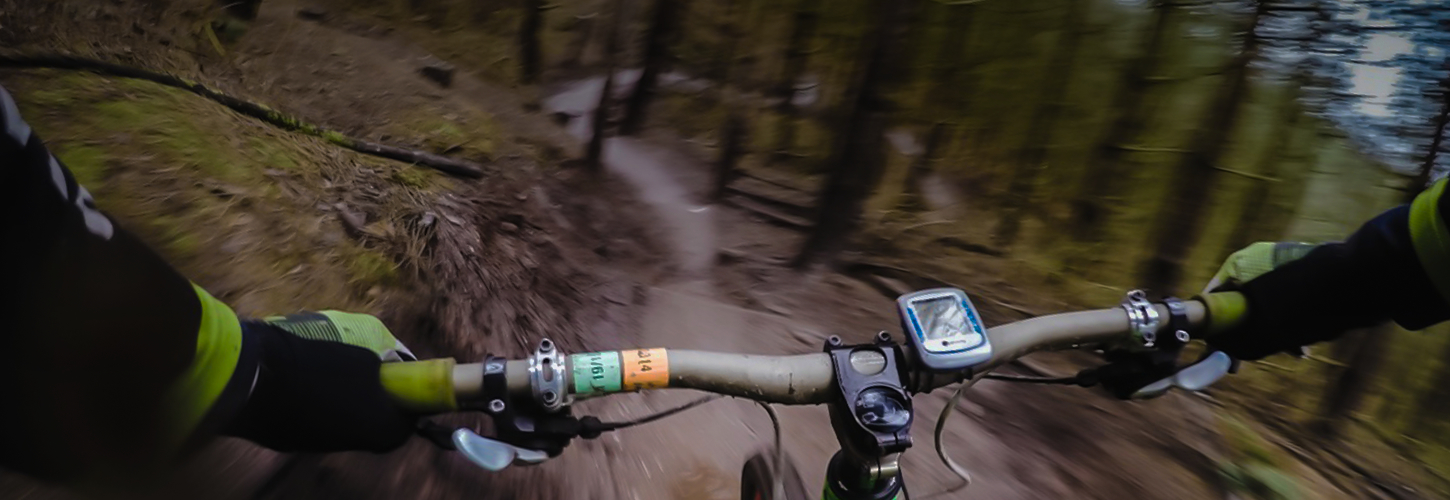
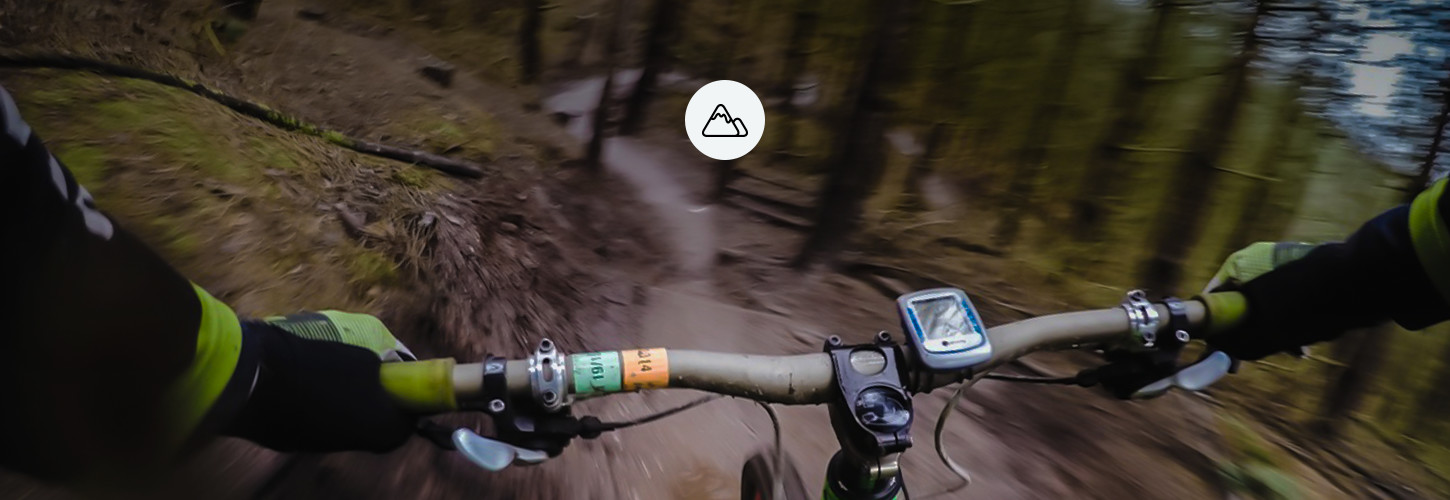
fixes

Changed region(s): [[0.4655, 0.15, 0.5276, 0.33]]

diff --git a/app/components/landing/landing.html b/app/components/landing/landing.html
@@ -1,113 +1,113 @@
-<!--<div class="jumbotron jumbotron-index">
-    <div class="container text-center">
-        <h3>Welcome to Campture</h3>
-        <p>Showcase and Discover experiences</p>
-        <a  ng-href="#/howTo/" class="btn btn-primary btn-lg round"><img src="/img/icons/map.svg" alt=""> Campture Me!</a>
-        <!--<a ng-show="userObj == undefined" class="btn btn-primary btn-lg round" data-target="#facebook-login-modal" data-toggle="modal"><img src="/img/icons/map.svg" alt=""> Campture Me!</a>
-        <a ng-show="userObj" ng-href="#/account/postTrip" class="btn btn-primary btn-lg round"><img src="/img/icons/map.svg" alt=""> Campture Me!</a>
-    </div>
-</div>!-->
+    <!--<div class="jumbotron jumbotron-index">
+        <div class="container text-center">
+            <h3>Welcome to Campture</h3>
+            <p>Showcase and Discover experiences</p>
+            <a  ng-href="#/howTo/" class="btn btn-primary btn-lg round"><img src="/img/icons/map.svg" alt=""> Campture Me!</a>
+            <!--<a ng-show="userObj == undefined" class="btn btn-primary btn-lg round" data-target="#facebook-login-modal" data-toggle="modal"><img src="/img/icons/map.svg" alt=""> Campture Me!</a>
+            <a ng-show="userObj" ng-href="#/account/postTrip" class="btn btn-primary btn-lg round"><img src="/img/icons/map.svg" alt=""> Campture Me!</a>
+        </div>
+    </div>!-->
 <div id="carousel" class="carousel slide carousel-fade jumbotron-index" data-ride="carousel">
     <!-- Carousel items -->
     <div class="carousel-inner">
         <div class="active item">
             <img src="../../../css/images/Slider1.jpg">
             <div class="carousel-caption">
-                <img src="../../../css/images/Slider1 icon.png" style="width:50px;" class="hidden-sm hidden-xs">
                 <p class="landing-carousel-text">Campture those moments in the clouds.</p>
-                <a ng-href="#/account/postTrip/" class="btn btn-default get-started-btn">Get Started</a>
+                <a ng-show="userObj" ng-href="#/account/postTrip/" class="btn btn-default get-started-btn">Get Started</a>
+                <a ng-show="userObj == undefined" class="btn btn-default get-started-btn" data-target="#facebook-login-modal" data-toggle="modal">Get Started</a>
             </div>
         </div>
         <div class="item"><img src="../../../css/images/slider2.jpg">
-        <div class="carousel-caption">
-        <img src="../../../css/images/Slider2 icon.png" style="width:50px;" class="hidden-sm hidden-xs">
-        <p class="landing-carousel-text">Campture the adrenaline rush.</p>
-        <a ng-href="#/account/postTrip/" class="btn btn-default get-started-btn">Get Started</a>
-      </div>
+            <div class="carousel-caption">
+                <p class="landing-carousel-text">Campture the adrenaline rush.</p>
+                <a ng-show="userObj" ng-href="#/account/postTrip/" class="btn btn-default get-started-btn">Get Started</a>
+                <a ng-show="userObj == undefined" class="btn btn-default get-started-btn" data-target="#facebook-login-modal" data-toggle="modal">Get Started</a>
+            </div>
         </div>
         <div class="item"><img src="../../../css/images/slider3.jpg">
-        <div class="carousel-caption">
-        <img src="../../../css/images/Slider3 icon.png" style="width:50px;" class="hidden-sm hidden-xs">
-        <p class="landing-carousel-text">Campture those unique trails with friends.</p>
-        <a ng-href="#/account/postTrip/" class="btn btn-default get-started-btn">Get Started</a>
-      </div>
+            <div class="carousel-caption">
+                <p class="landing-carousel-text">Campture those unique trails with friends.</p>
+                <a ng-show="userObj" ng-href="#/account/postTrip/" class="btn btn-default get-started-btn">Get Started</a>
+                <a ng-show="userObj == undefined" class="btn btn-default get-started-btn" data-target="#facebook-login-modal" data-toggle="modal">Get Started</a>
+            </div>
         </div>
         <div class="item"><img src="../../../css/images/slider4.jpg">
-        <div class="carousel-caption">
-        <img src="../../../css/images/Slider4 icon.png" style="width:50px;" class="hidden-sm hidden-xs">
-        <p class="landing-carousel-text">Campture your adventure.</p>
-        <a ng-href="#/account/postTrip/" class="btn btn-default get-started-btn">Get Started</a>
-      </div>
+            <div class="carousel-caption">
+                <p class="landing-carousel-text">Campture your adventure.</p>
+                <a ng-show="userObj" ng-href="#/account/postTrip/" class="btn btn-default get-started-btn">Get Started</a>
+                <a ng-show="userObj == undefined" class="btn btn-default get-started-btn" data-target="#facebook-login-modal" data-toggle="modal">Get Started</a>
+            </div>
         </div>
-        
+
     </div>
     <!-- Carousel nav -->
     <a class="carousel-control left" href="#carousel" data-slide="prev"><span class="glyphicon glyphicon-chevron-left" aria-hidden="true"></span></a>
     <a class="carousel-control right" href="#carousel" data-slide="next"><span class="glyphicon glyphicon-chevron-right" aria-hidden="true"></span></a>
-   
+
 </div>
 <div class="trip-background-wrap">
-<div class="text-center container trip-background-wrap">
-<h2>
+    <div class="text-center container trip-background-wrap">
+        <h2>
 Incredible adventures created by people like you.
-</h2>
-<h4>Our mission is to discover adventures, whether just down the street or across the globe,<br>by inspiring people to explore and share their experiences.</h4> 
-</div>
-<div class="must-visit" style="background-color:rgb(36, 38, 37)">
-<div class="text-center" style="font-size:28px; color:white;" >Categories</div>
-<div class="container">
+        </h2>
+        <h4>Our mission is to discover adventures, whether just down the street or across the globe,<br>by inspiring people to explore and share their experiences.</h4>
+    </div>
+    <div class="must-visit" style="background-color:rgb(36, 38, 37)">
+        <div class="text-center" style="font-size:28px; color:white;">Categories</div>
+        <div class="container">
 
-<div id="tagsCarousel" class="carousel slide" data-ride="carousel">
-  
-  <!-- Wrapper for slides -->
-  <div class="carousel-inner" role="listbox">
-    <div class="item active">
- <div class="row">
-  <div class="col-md-3 col-xs-6" ng-repeat="categoryTag in categoryTagsRow1">
-    <a ng-href="#/feed/{{categoryTag.tag}}" class="thumbnail">
-      <img ng-src="{{categoryTag.image_url}}" alt="image">
-    </a>
-  </div>
-  </div>
-        
-</div>
-      <div class="item">
- <div class="row">
-  <div class="col-md-3 col-xs-6" ng-repeat="categoryTag in categoryTagsRow2">
-    <a ng-href="#/feed/{{categoryTag.tag}}" class="thumbnail">
-      <img ng-src="{{categoryTag.image_url}}" alt="image">
-    </a>
-  </div>
-  </div>
-        
-</div>
-      <div class="item">
- <div class="row">
-  <div class="col-md-3 col-xs-6" ng-repeat="categoryTag in categoryTagsRow3">
-    <a ng-href="#/feed/{{categoryTag.tag}}" class="thumbnail">
-      <img ng-src="{{categoryTag.image_url}}" alt="image">
-    </a>
-  </div>
-  </div>
-        
-</div>
+            <div id="tagsCarousel" class="carousel slide" data-ride="carousel">
 
-    
-  </div>
+                <!-- Wrapper for slides -->
+                <div class="carousel-inner" role="listbox">
+                    <div class="item active">
+                        <div class="row">
+                            <div class="col-md-3 col-xs-6" ng-repeat="categoryTag in categoryTagsRow1">
+                                <a ng-href="#/feed/{{categoryTag.tag}}" class="thumbnail">
+                                    <img ng-src="{{categoryTag.image_url}}" alt="image">
+                                </a>
+                            </div>
+                        </div>
 
-  <!-- Left and right controls -->
-  <a class="left carousel-control" href="#tagsCarousel" role="button" data-slide="prev">
-    <span class="glyphicon glyphicon-chevron-left" aria-hidden="true"></span>
-    <span class="sr-only">Previous</span>
-  </a>
-  <a class="right carousel-control" href="#tagsCarousel" role="button" data-slide="next">
-    <span class="glyphicon glyphicon-chevron-right" aria-hidden="true"></span>
-    <span class="sr-only">Next</span>
-  </a>
-</div>
+                    </div>
+                    <div class="item">
+                        <div class="row">
+                            <div class="col-md-3 col-xs-6" ng-repeat="categoryTag in categoryTagsRow2">
+                                <a ng-href="#/feed/{{categoryTag.tag}}" class="thumbnail">
+                                    <img ng-src="{{categoryTag.image_url}}" alt="image">
+                                </a>
+                            </div>
+                        </div>
 
-</div>
-</div>
+                    </div>
+                    <div class="item">
+                        <div class="row">
+                            <div class="col-md-3 col-xs-6" ng-repeat="categoryTag in categoryTagsRow3">
+                                <a ng-href="#/feed/{{categoryTag.tag}}" class="thumbnail">
+                                    <img ng-src="{{categoryTag.image_url}}" alt="image">
+                                </a>
+                            </div>
+                        </div>
+
+                    </div>
+
+
+                </div>
+
+                <!-- Left and right controls -->
+                <a class="left carousel-control" href="#tagsCarousel" role="button" data-slide="prev">
+                    <span class="glyphicon glyphicon-chevron-left" aria-hidden="true"></span>
+                    <span class="sr-only">Previous</span>
+                </a>
+                <a class="right carousel-control" href="#tagsCarousel" role="button" data-slide="next">
+                    <span class="glyphicon glyphicon-chevron-right" aria-hidden="true"></span>
+                    <span class="sr-only">Next</span>
+                </a>
+            </div>
+
+        </div>
+    </div>
 
 
     <div class="container">

diff --git a/app/components/account/timeline/timeline.html b/app/components/account/timeline/timeline.html
@@ -126,8 +126,8 @@
                     </div>
                     <div class="portfolio-image">
                     <uib-carousel interval="" no-wrap="false">
-                      <uib-slide ng-init="placeImageIndex = $index" class="select-pointer" ng-click="toggleModal(getCroppedTripImageUrl(image.image_url,'upload/c_fill,h_0.5,w_0.5/'),place.note)" ng-repeat="image in place.images track by $index" active="slide.active" index="$index"><!--getCroppedTripImageUrl(image.image_url,'upload/c_fill,h_562,w_850/')-->
-                        <img  ng-src="{{getCroppedTripImageUrl(image.image_url,'upload/c_fill,h_500,w_960/')}}" style="margin:auto;">                        
+                      <uib-slide ng-init="placeImageIndex = $index" class="select-pointer" ng-click="toggleModal(getCroppedTripImageUrl(image.image_url,'upload/c_fill,h_0.9,w_0.9/'),place.note)" ng-repeat="image in place.images track by $index" active="slide.active" index="$index"><!--getCroppedTripImageUrl(image.image_url,'upload/c_fill,h_562,w_850/')-->
+                        <img  ng-src="{{getCroppedTripImageUrl(image.image_url,'upload/c_fill,h_650,w_450/')}}" style="margin:auto;">                        
                       </uib-slide>
                     </uib-carousel>
                     </div>

diff --git a/app/components/account/postTrip/postTripCtrl.js b/app/components/account/postTrip/postTripCtrl.js
@@ -12,6 +12,7 @@
         $scope.userObj = JSON.parse(JSON.stringify(Parse.User.current()));
         if (!$scope.userObj) {
             $location.path("/");
+            return;
         }
         $scope.userObj.id = $scope.userObj.objectId;
         $scope.details = function (details) {
